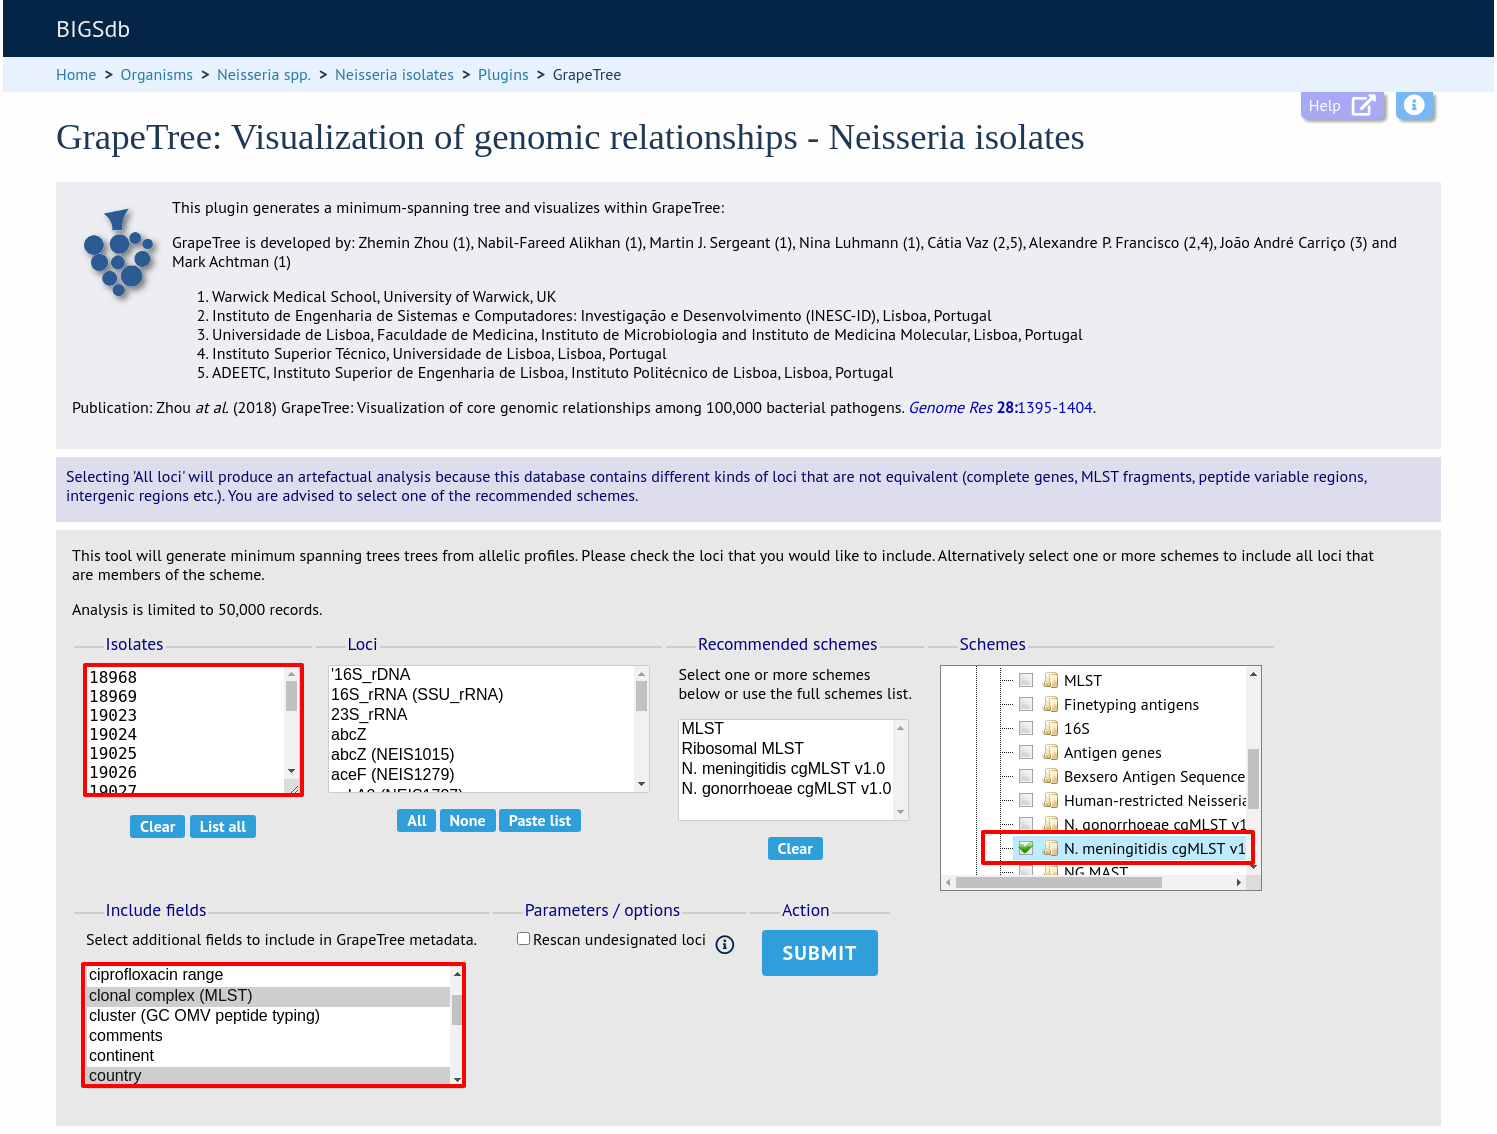
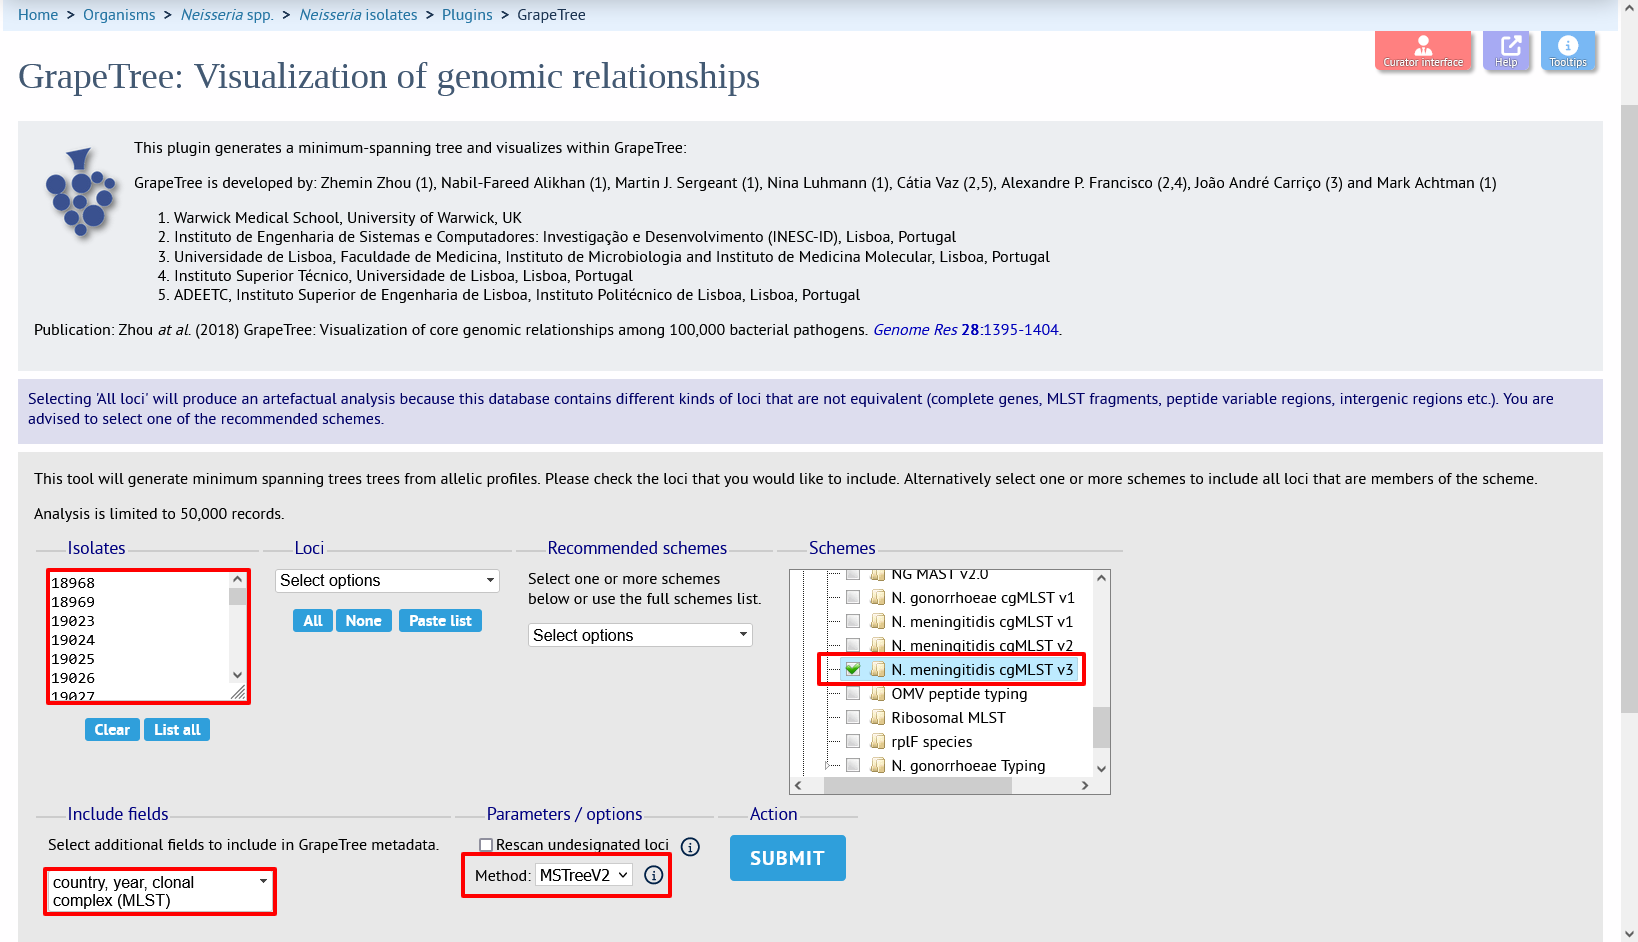
Support for NJ in GrapeTree.

Changed region(s): [[0.0, 0.0, 1.0, 0.9851], [0.5531, 0.0924, 0.7067, 0.1539], [0.9833, 0.9851, 1.0, 1.0]]

diff --git a/conf.py b/conf.py
@@ -54,9 +54,9 @@ copyright = u"2014-2024, Keith Jolley"
 # built documents.
 #
 # The short X.Y version.
-version = "1.50.0"
+version = "1.51.0"
 # The full version, including alpha/beta/rc tags.
-release = "1.50.0"
+release = "1.51.0"
 
 # The language for content autogenerated by Sphinx. Refer to documentation
 # for a list of supported languages.

diff --git a/data_analysis/grapetree.rst b/data_analysis/grapetree.rst
@@ -39,9 +39,16 @@ scheme selector, or choose from recommended schemes if these have been set, to
 include all loci belonging to that scheme.
 
 Additional fields can be selected to be included as metadata for use in 
-colouring nodes - select any fields you wish to include. Multiple selections
-can be made by holding down shift or ctrl while selecting. Click 'Submit' to 
-start the analysis.
+colouring nodes - select any fields you wish to include. Finally you can choose
+the analysis method from the following:
+
+ * MSTreeV2 - Improved minimum-spanning tree that better handles missing data
+   (default)
+ * MSTree - Classical minimum-spanning tree similar to PhyloViz
+ * NJ - FastME V2 Neighbour-joining tree
+ * RapidNJ - RapidNJ Neighbour-joining tree for very large datasets
+
+Click 'Submit' to start the analysis.
 
 .. image:: /images/data_analysis/grapetree3.png
 
